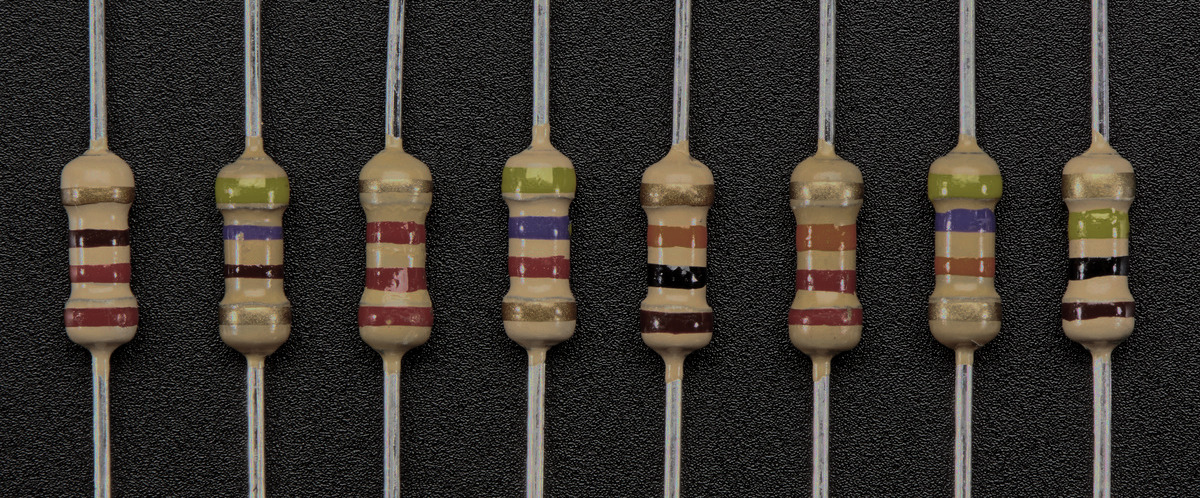
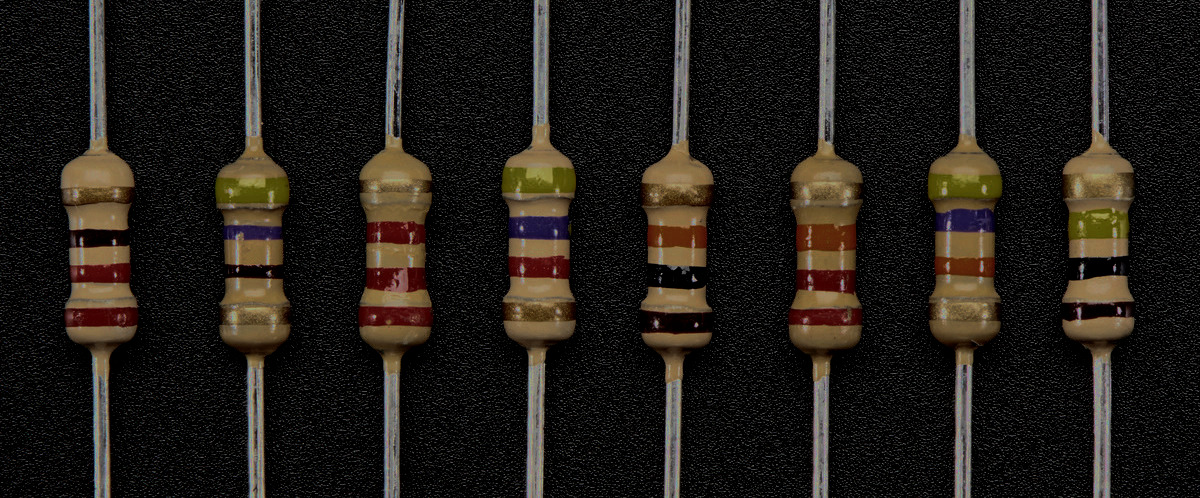
changing brightness/contrast on pics

diff --git a/sprint2.html b/sprint2.html
@@ -66,7 +66,7 @@
 
     <!-- Page Header -->
     <!-- Set your background image for this header on the line below. -->
-    <header class="intro-header" style="background-image: url('img/resistors.jpg')">
+    <header class="intro-header" style="background-image: url('img/sprint2/bg.jpg')">
         <div class="container">
             <div class="row">
                 <div class="col-lg-8 col-lg-offset-2 col-md-10 col-md-offset-1">
